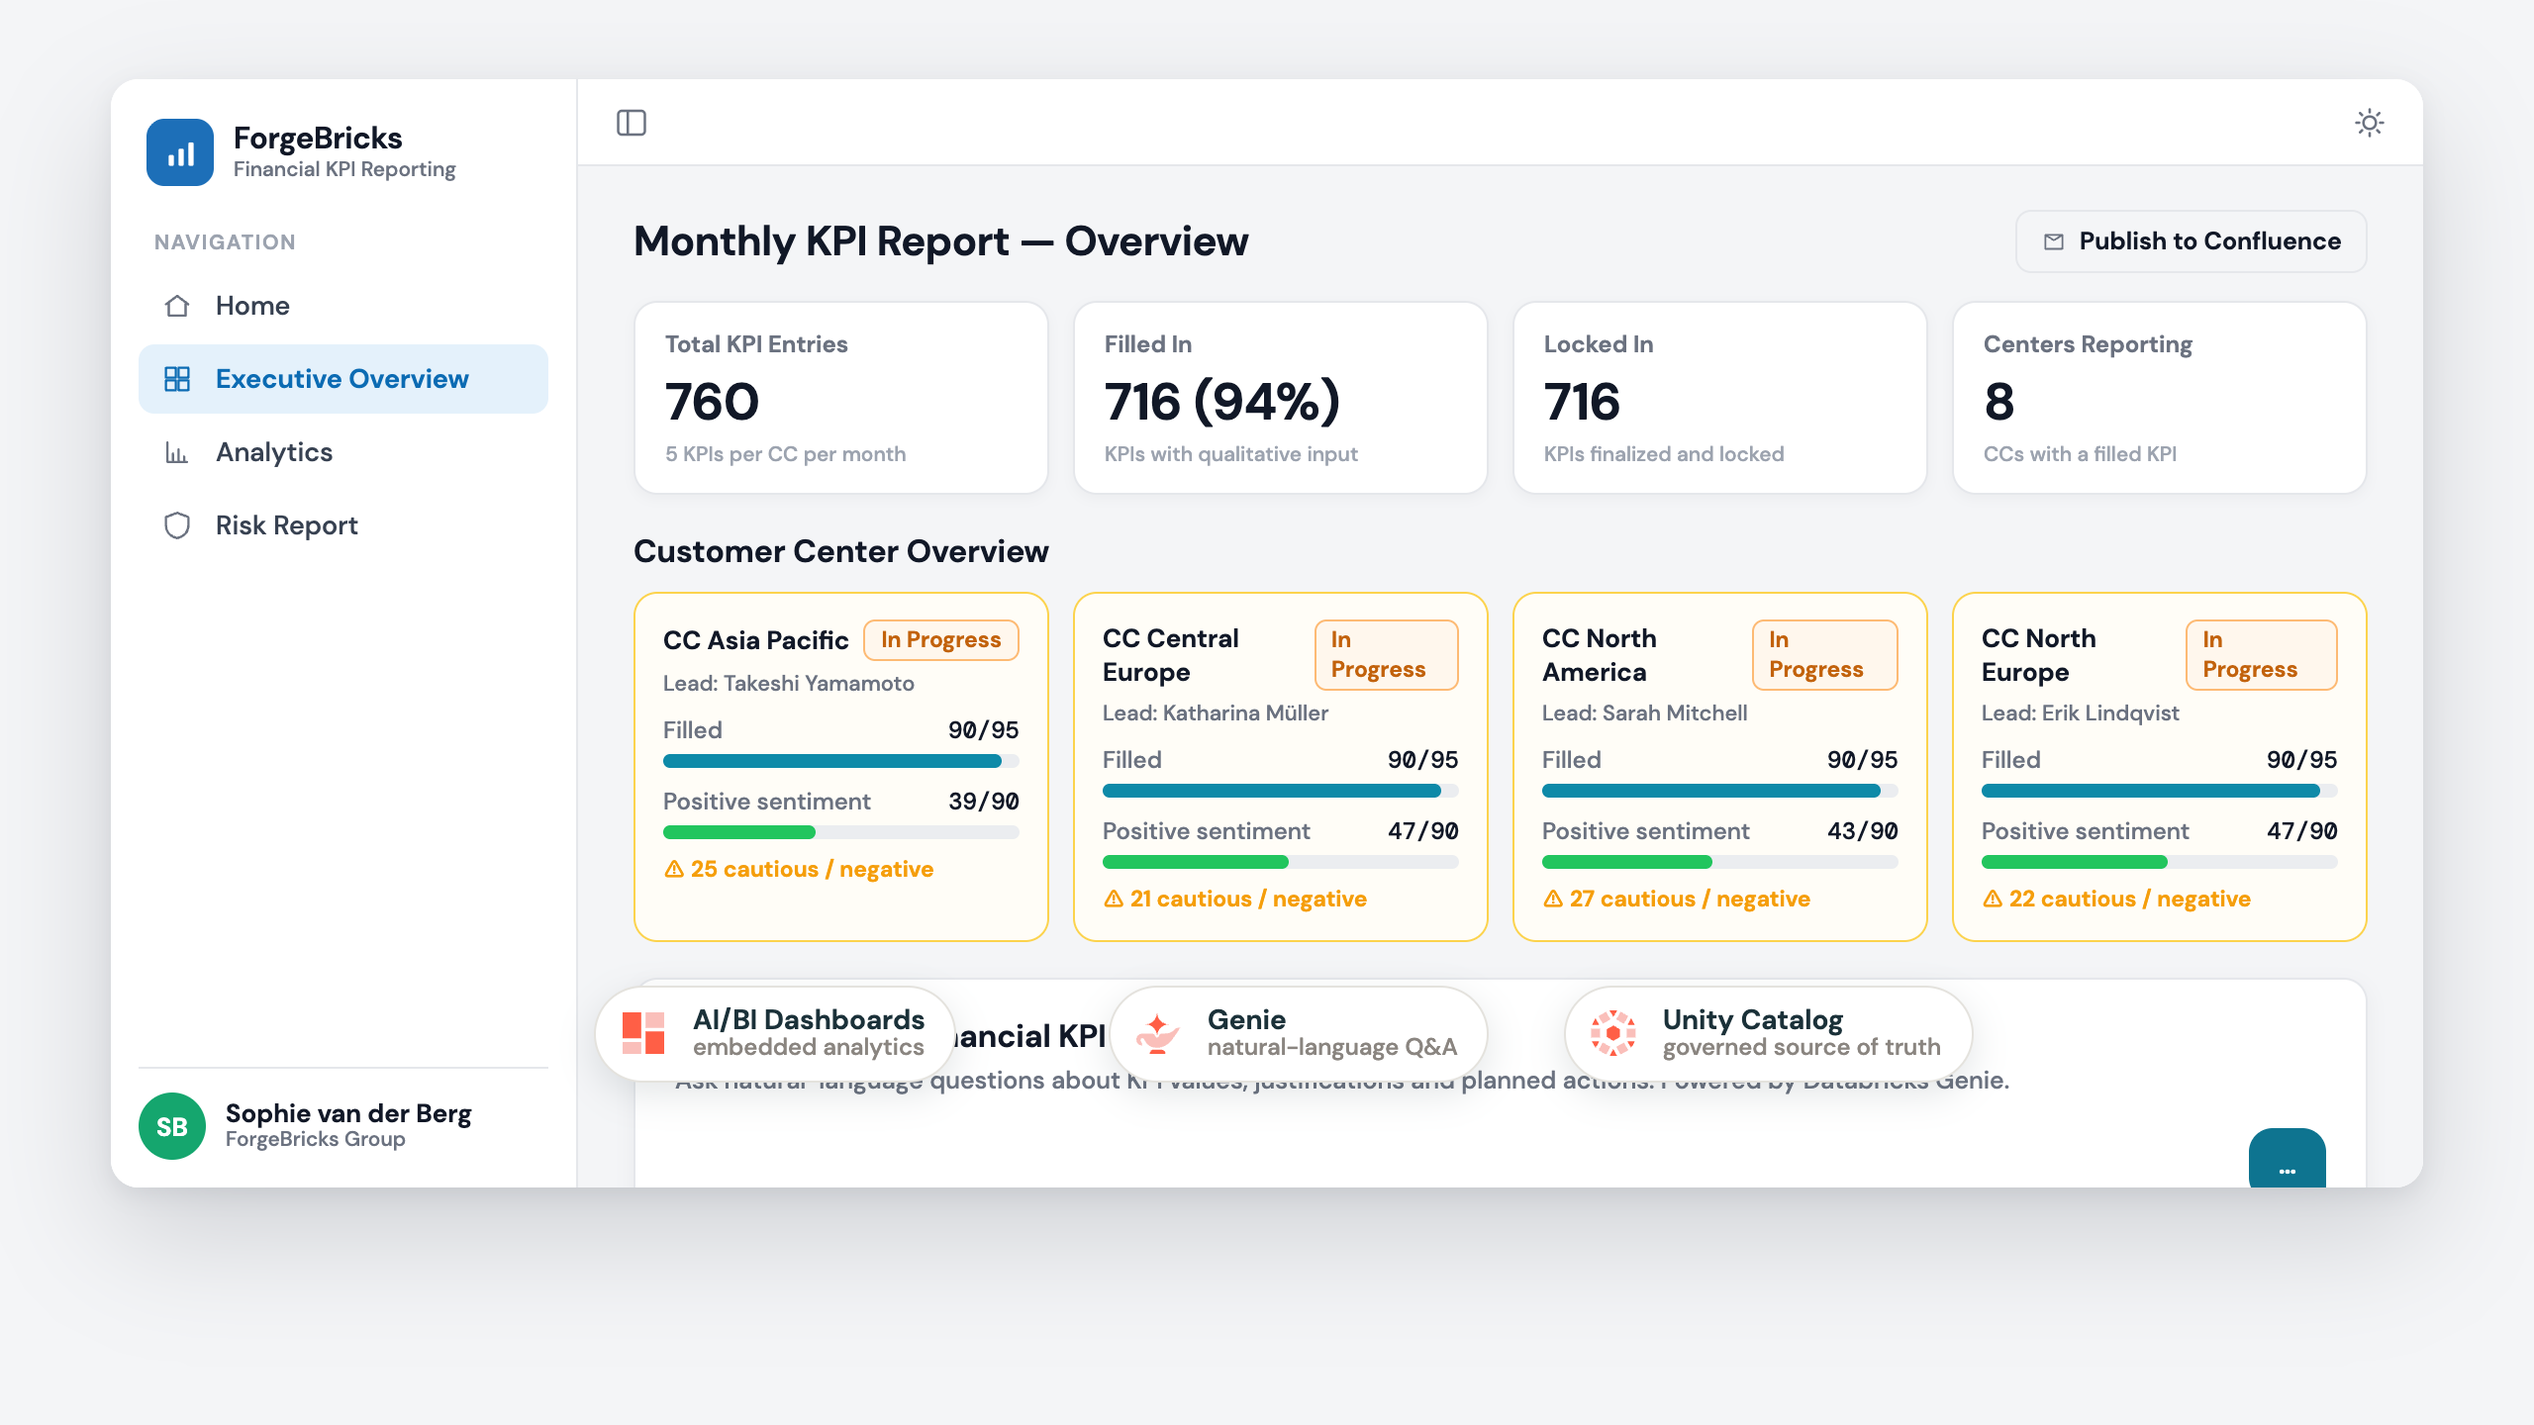
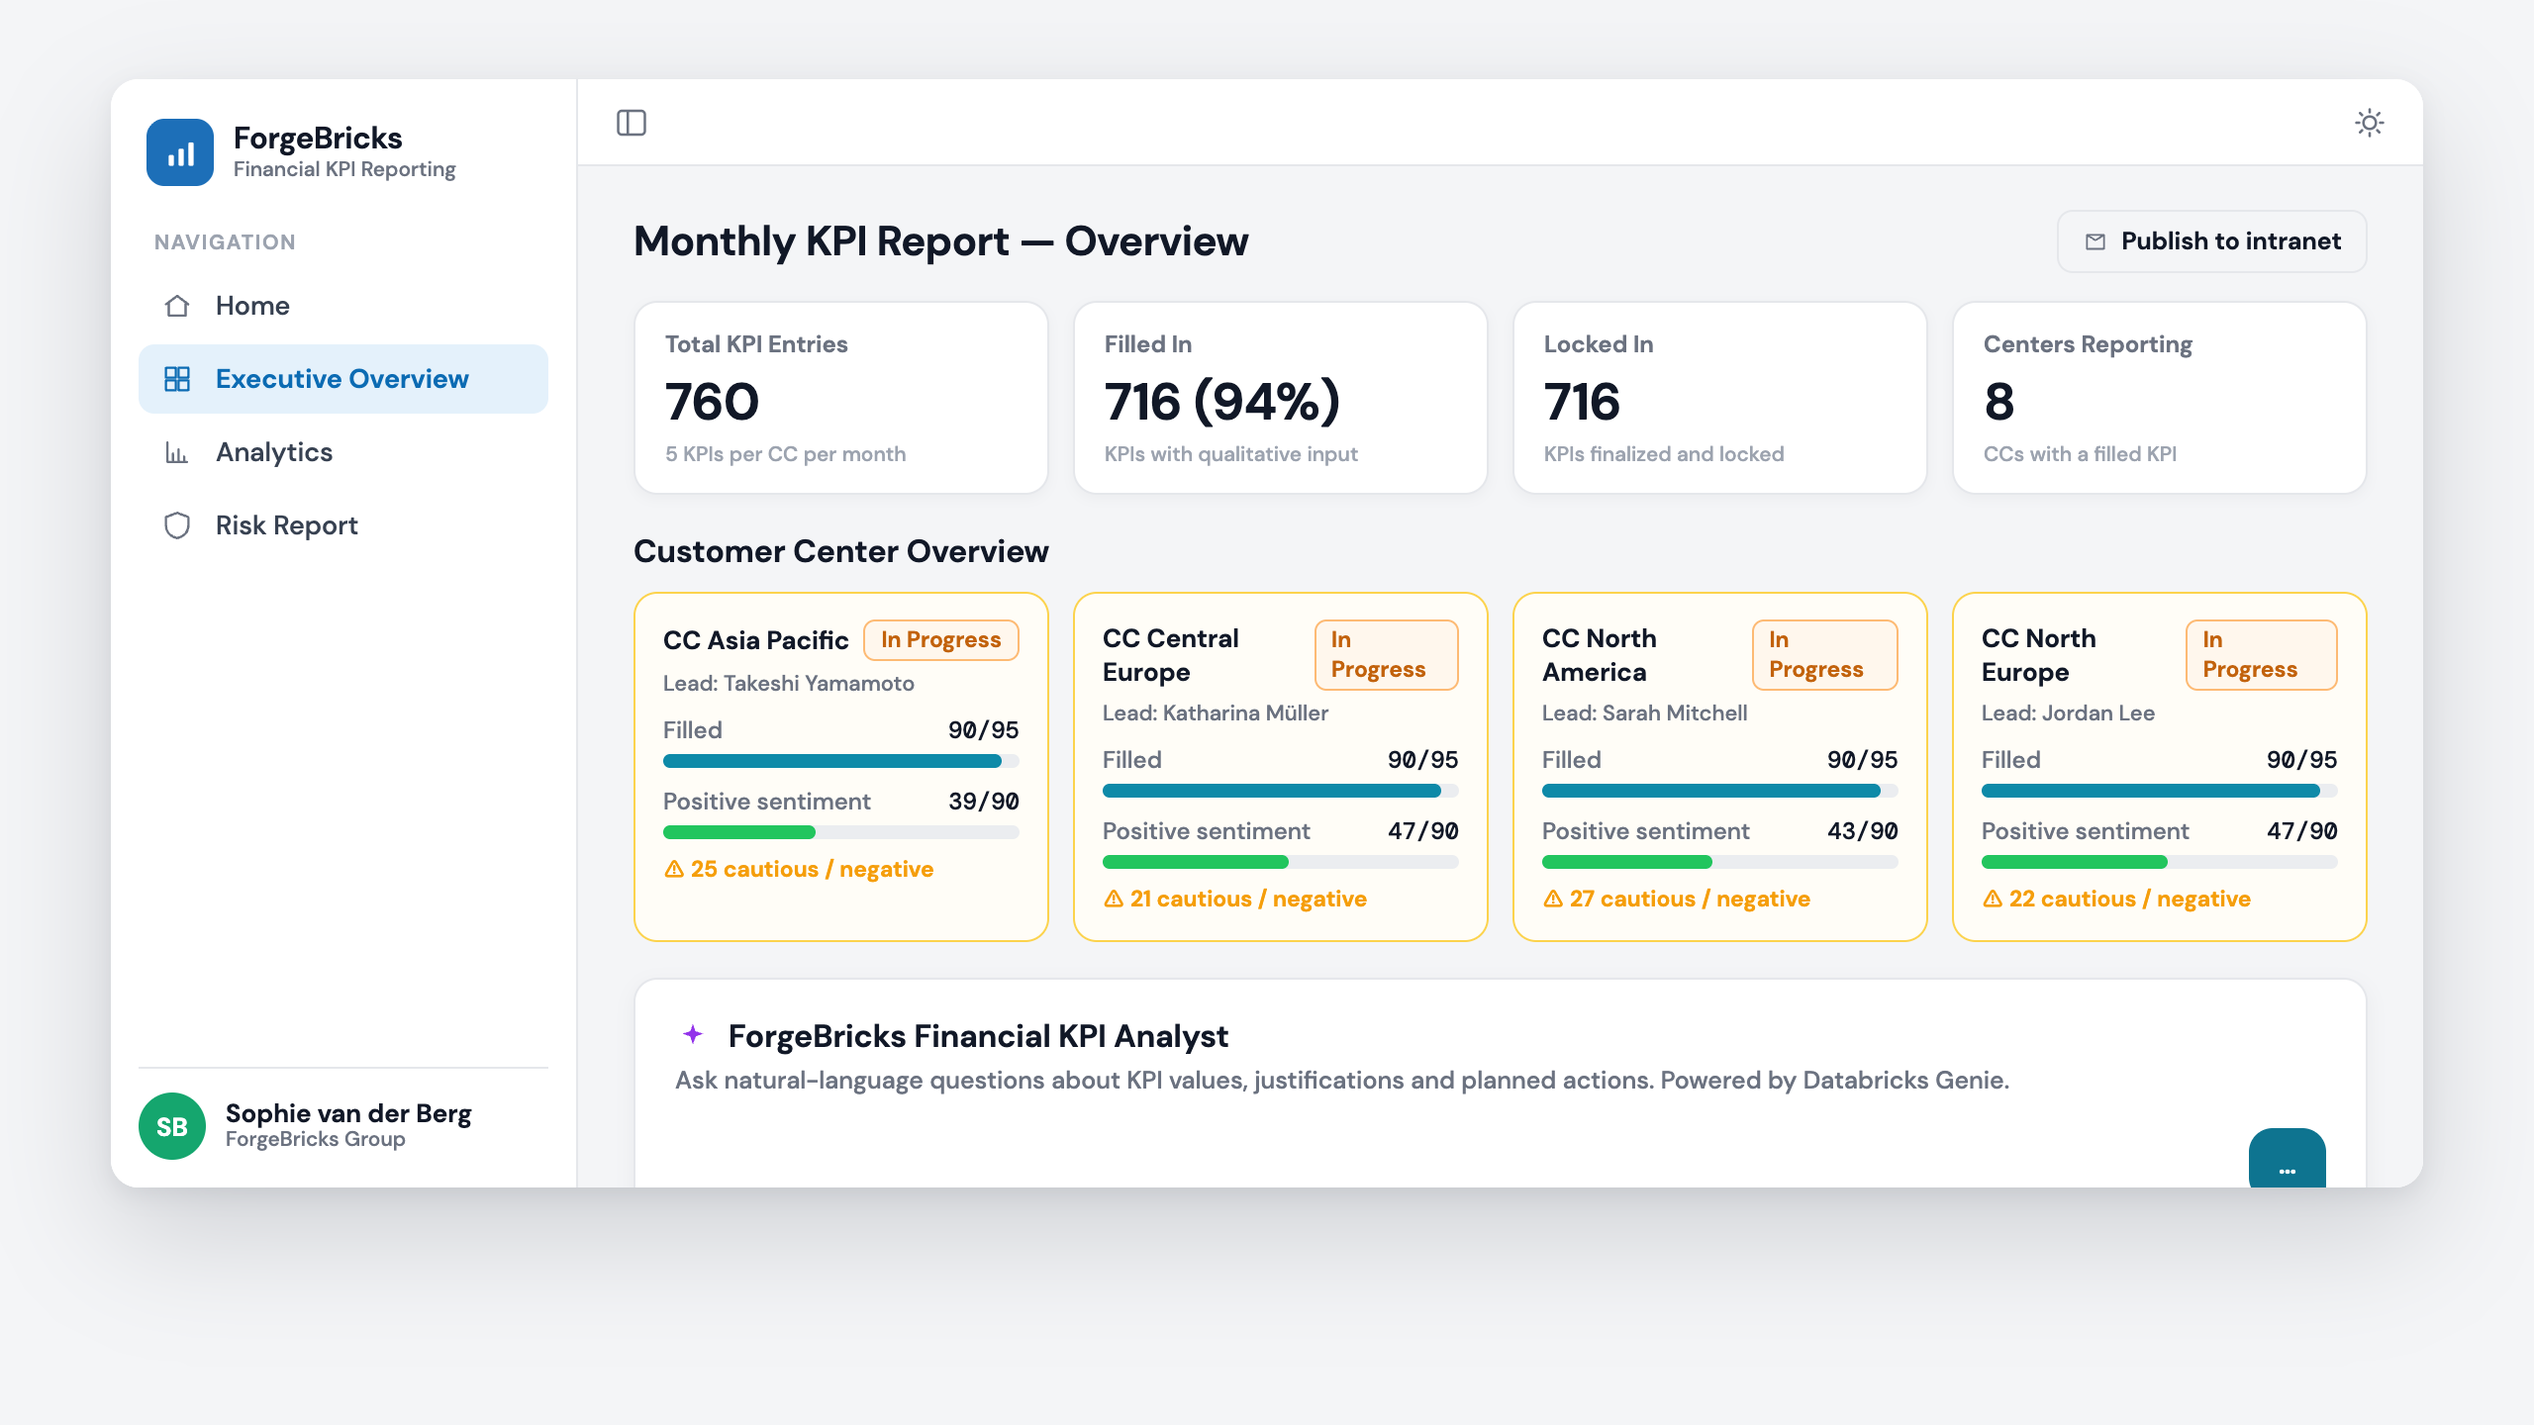
README: refresh the images, fix stale claims
- New README images: the P&L manager (Jordan) as the submitter, Unity
  Gateway instead of "AI Gateway + Claude", publishing to the intranet,
  and a detailed architecture diagram that now leads the section
  (replaces 08-architecture.png)
- Captions match the images, and a note explains that they use the demo's
  sample company (ForgeBricks, eight customer centers) while the app seeds
  Bricks Co with six regions
- Drop the reminders job from the component table (there is none in the
  repo); add the AI/BI dashboard and Unity Gateway to the intro, the
  component table and the ASCII architecture diagram

diff --git a/README.md b/README.md
@@ -1,6 +1,6 @@
 # Financial KPI Reporting
 
-A reference Databricks App for **governed monthly financial KPI reporting** across multiple business units or regions. Demonstrates an end-to-end pattern combining **Databricks Apps + Lakebase + Unity Catalog + Genie + (optionally) Confluence publishing** for a multi-unit enterprise.
+A reference Databricks App for **governed monthly financial KPI reporting** across multiple business units or regions. Demonstrates an end-to-end pattern combining **Databricks Apps + Lakebase + Unity Catalog + Genie + AI/BI dashboards + Unity Gateway + (optionally) Confluence publishing** for a multi-unit enterprise.
 
 > Built as a Field Engineering reference implementation. Synthetic data only — clone and customize for your own organization.
 
@@ -12,7 +12,7 @@ Three personas, one app:
 |---|---|
 | **P&L Manager** (e.g. *Jordan Lee*) | Drafts the monthly KPI justifications for their region (with AI help), submits them for review, and revises any KPI the GM sends back (flagged on the home page and in the KPI table) |
 | **General Manager** (e.g. *Alex Morgan*) | Reviews the region's submitted KPIs, then approves them or sends them back to the P&L manager |
-| **CFO** (e.g. *Sam Carter*) | Views consolidated dashboard, drills into underperforming regions, asks ad-hoc questions through embedded Genie, *(optionally)* publishes the executive summary to Confluence |
+| **CFO** (e.g. *Sam Carter*) | Views the consolidated overview and dashboard, drills into underperforming regions, asks ad-hoc questions through embedded Genie, generates an AI risk & sentiment report, *(optionally)* publishes the executive summary to Confluence |
 
 Out of the box the demo seeds 6 regions × 5 KPIs (Revenue Growth, Operating Margin, DSO, OPEX Ratio, Free Cash Flow) across all months from **January 2025 up to and including the current month** — automatically, with no hardcoded dates. Historical months are submitted and approved. In the previous month, Region North and Central have submitted two KPIs that are waiting for GM review and drafted a third; the current month is open and not yet started. A **Switch user** dropdown on the home page lets you act as the P&L manager, the GM or the CFO.
 
@@ -20,71 +20,74 @@ The Confluence publish-to-wiki feature is **off by default** — the app works w
 
 ## Screenshots
 
-**P&L Manager: KPI Reporting** — submission table with status indicators; the P&L manager enters KPI actuals, writes AI-assisted justifications, and submits them for GM review.
+The images use the demo video's sample company, *ForgeBricks*, with eight customer centers; the reference app seeds *Bricks Co* with six regions, so names and numbers differ.
 
-![P&L Manager KPI Reporting](docs/screenshots/01-gm-home.png)
+**Architecture.** Everything runs inside the Databricks workspace under Unity Catalog. The app reads and writes Lakebase, which syncs continuously to Delta tables and metric views; Genie, Claude via Unity Gateway and the embedded AI/BI dashboard sit alongside, with optional intranet publishing. It deploys with Databricks Asset Bundles and APX.
 
-**AI-assisted justification draft** — the app calls Claude Sonnet on Databricks through Unity Gateway to draft narrative context from the raw numbers; the P&L manager edits the draft before submitting it.
+![Architecture](docs/screenshots/00-architecture.png)
+
+**P&L manager home.** Jordan, the P&L manager, signs in to exactly the KPIs that still need a justification.
+
+![P&L manager home](docs/screenshots/01-gm-home.png)
+
+**AI-assisted justification draft.** The app calls Claude Sonnet on Databricks through Unity Gateway to draft the justification from the actuals, peer regions and prior periods; the P&L manager edits the draft and submits it for GM review.
 
 ![AI justification draft](docs/screenshots/02-ai-draft.png)
 
-**CFO home** — consolidated overview across all regions: completion cards, lock-rate progress, and quick drill-in to underperformers.
+**CFO home.** The CFO sees only what needs reviewing: per-period submission progress, KPIs flagged with cautious or negative sentiment, and a shortcut to risk analysis.
 
 ![CFO home](docs/screenshots/03-cfo-home.png)
 
-**CFO dashboard** — embedded AI/BI dashboard with KPI trend charts, per-region breakdown, and achievement-vs-target waterfall.
+**Executive overview.** Fill rate, submissions and sentiment for every region on one page, with the Genie analyst below.
 
-![CFO dashboard](docs/screenshots/04-cfo-dashboard.png)
+![Executive overview](docs/screenshots/04-cfo-dashboard.png)
 
-**Genie analyst** — natural-language Q&A over KPI data, embedded in the CFO view; answers queries like *"Which region has the highest Operating Margin this quarter?"*
+**Genie analyst.** Natural-language Q&A over the governed KPI data, embedded in the CFO view, with the generated SQL one click away.
 
 ![Genie analyst](docs/screenshots/05-genie-analyst.png)
 
-**Risk & exceptions report** — CFO can flag underperforming regions, add commentary, and generate a risk summary page.
+**Risk & sentiment report.** Generated on demand for the CFO: top risks with evidence, recommended actions and an executive summary.
 
-![Risk report](docs/screenshots/06-risk-report.png)
+![Risk and sentiment report](docs/screenshots/06-risk-report.png)
 
-**Publish to Confluence** — one-click idempotent publish of the executive KPI summary to a Confluence Cloud page (optional feature).
+**Publish to the intranet.** One click publishes the report to the company wiki, a Confluence Cloud page in the reference app (optional feature; publishing is idempotent).
 
-![Publish to Confluence](docs/screenshots/07-publish-to-confluence.png)
-
-**Architecture diagram** — end-to-end component view.
-
-![Architecture](docs/screenshots/08-architecture.png)
+![Published to the intranet](docs/screenshots/07-publish-to-intranet.png)
 
 ## Architecture
 
 ```
-┌──────────────────────────────────────────────────────────────┐
-│  React (TanStack Router) frontend — submission + dashboard   │
-└──────────────────────────────────────────────────────────────┘
-                               │ REST
-┌──────────────────────────────┴──────────────────────────────┐
-│  FastAPI backend (Databricks App)                            │
-└─────────────┬──────────────────┬──────────────────┬─────────┘
-              │                  │                  │
-┌─────────────┴──────────┐  ┌───┴─────────────┐  ┌─┴────────────┐
-│ Lakebase               │  │ Genie Space      │  │ Confluence   │
-│ (Postgres)             │  │ (NL → SQL)       │  │ REST API     │
-└──────────┬─────────────┘  └─────────────────┘  └─────────────┘
-           │ Lakebase CDF (CDC)
-┌──────────┴────────────┐
-│ Unity Catalog          │
-│ Delta tables           │
-└────────────────────────┘
+┌────────────────────────────────────────────────────────────────────────┐
+│  React frontend (TanStack Router): reporting, review and CFO views     │
+└───────────────────────────────────┬────────────────────────────────────┘
+                                    │ REST
+┌───────────────────────────────────┴────────────────────────────────────┐
+│  FastAPI backend (Databricks App)                                      │
+└──────┬─────────────────┬────────────────────┬───────────────────┬──────┘
+       │                 │                    │                   │
+┌──────┴──────┐  ┌───────┴───────┐  ┌─────────┴─────────┐  ┌──────┴──────┐
+│ Lakebase    │  │ Genie space   │  │ Unity Gateway     │  │ Confluence  │
+│ (Postgres)  │  │ (NL → SQL)    │  │ (Claude Sonnet)   │  │ (optional)  │
+└──────┬──────┘  └───────┬───────┘  └───────────────────┘  └─────────────┘
+       │ Lakebase CDF    │ reads
+┌──────┴─────────────────┴─────────────────────┐
+│ Unity Catalog: Delta views of the app's      │
+│ tables, the kpi_metrics metric view, and     │
+│ the AI/BI dashboard built on it              │
+└──────────────────────────────────────────────┘
 ```
 
 | Component | Tech | Purpose |
 |---|---|---|
 | Frontend | React 19, TanStack Router, Tailwind | Submission and review UI, executive overview, embedded AI/BI dashboard |
-| Backend | FastAPI, Pydantic, SQLAlchemy + psycopg | API + Lakebase / Genie / Confluence integration |
+| Backend | FastAPI, Pydantic, SQLAlchemy + psycopg | API + Lakebase / Genie / Unity Gateway / Confluence integration |
 | Transactional store | Databricks Lakebase Autoscale (PostgreSQL) | KPI submissions, departments, userbase |
 | Analytical store | Unity Catalog Delta tables | Genie-readable view of submissions, kept fresh by Lakebase CDF (Change Data Feed, formerly "Lakehouse Sync") |
-| Governed metrics | Unity Catalog metric view (`kpi_metrics`) | One governed KPI definition (Lock Rate, Avg Achievement, …) that Genie answers KPI questions from |
+| Governed metrics | Unity Catalog metric view (`kpi_metrics`) | One governed KPI definition (Lock Rate, Avg Achievement, …) that both Genie and the AI/BI dashboard query |
 | AI | Databricks Genie | Natural-language Q&A over the KPI data, using the governed metric view |
+| Dashboards | Databricks AI/BI dashboard (created by notebook 03) | Embedded KPI trends, justification status and sentiment, built on the metric view |
 | AI drafting | Claude Sonnet via Unity Gateway (`system.ai.claude-sonnet-5`) | Justification drafts, executive narrative and risk report; every model call is governed by Unity Catalog |
 | Publishing | Confluence Cloud REST API | Idempotent page publishing per submission and per dashboard summary |
-| Reminders | Databricks SQL Alert / Job | Daily nudge for unjustified KPIs |
 | Build/Deploy | APX (FastAPI + React scaffolder), Databricks Asset Bundles | One-command bundle deploy |
 
 ## Prerequisites
